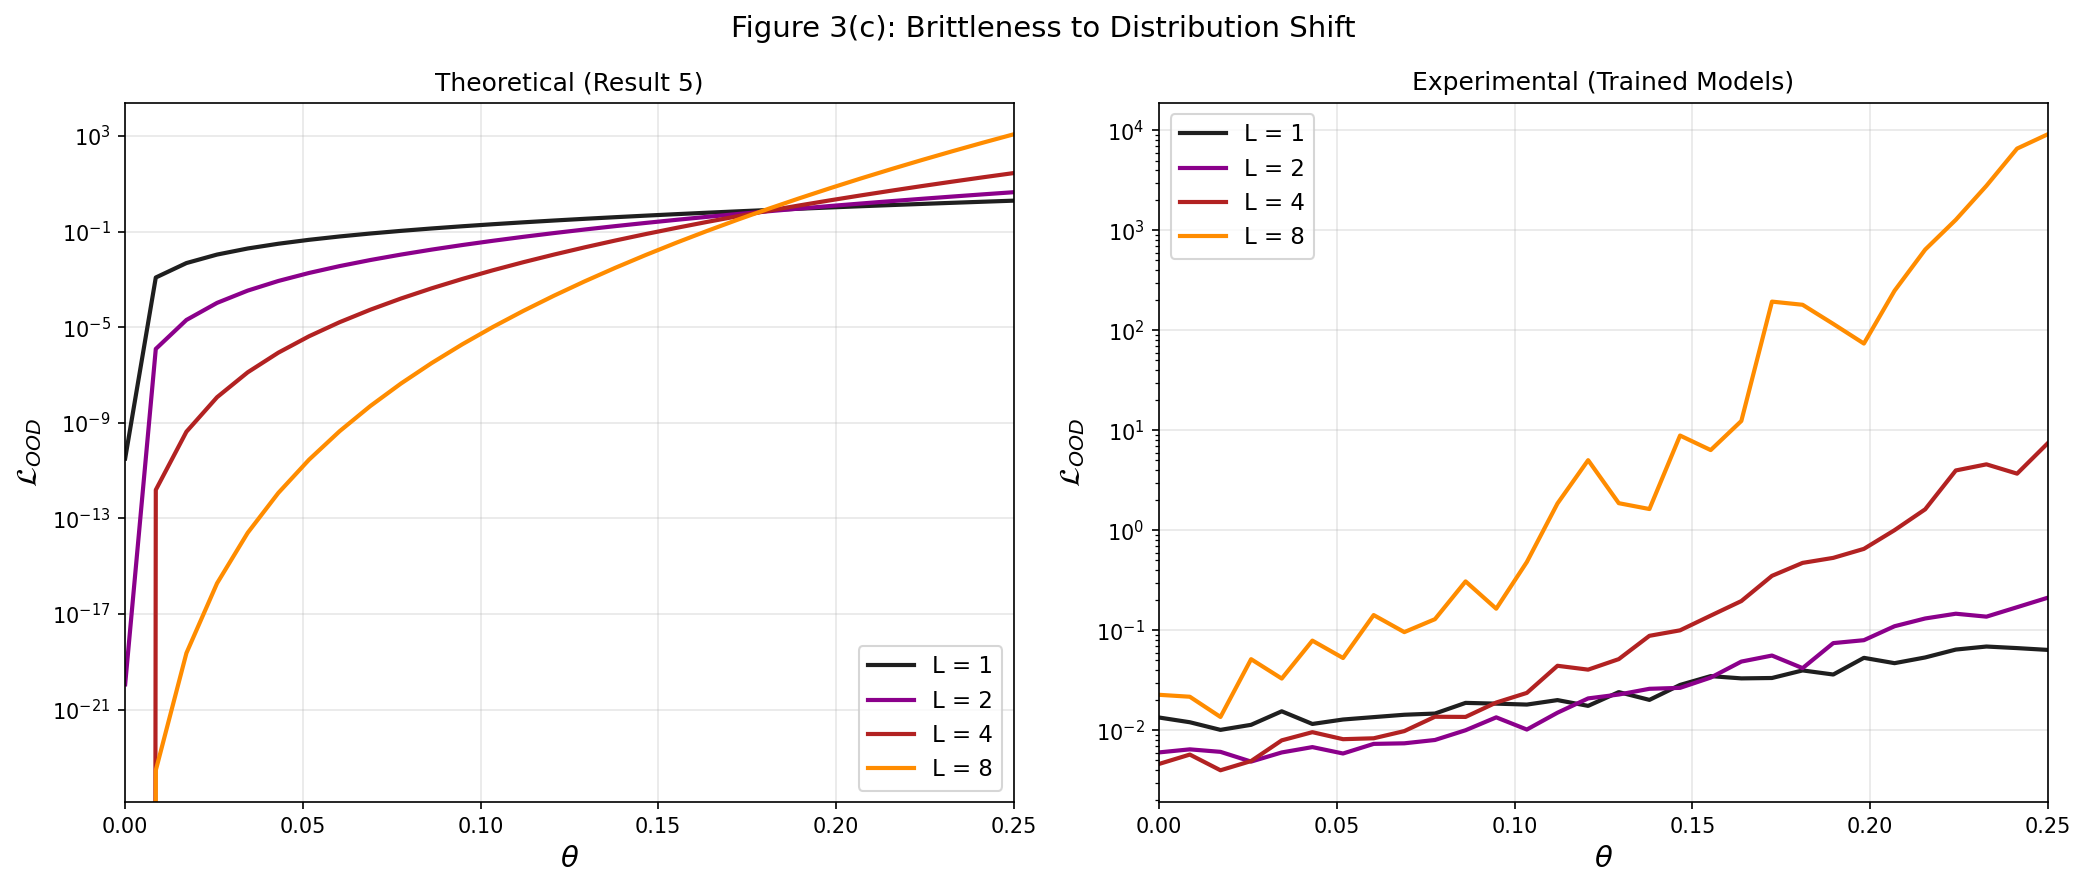
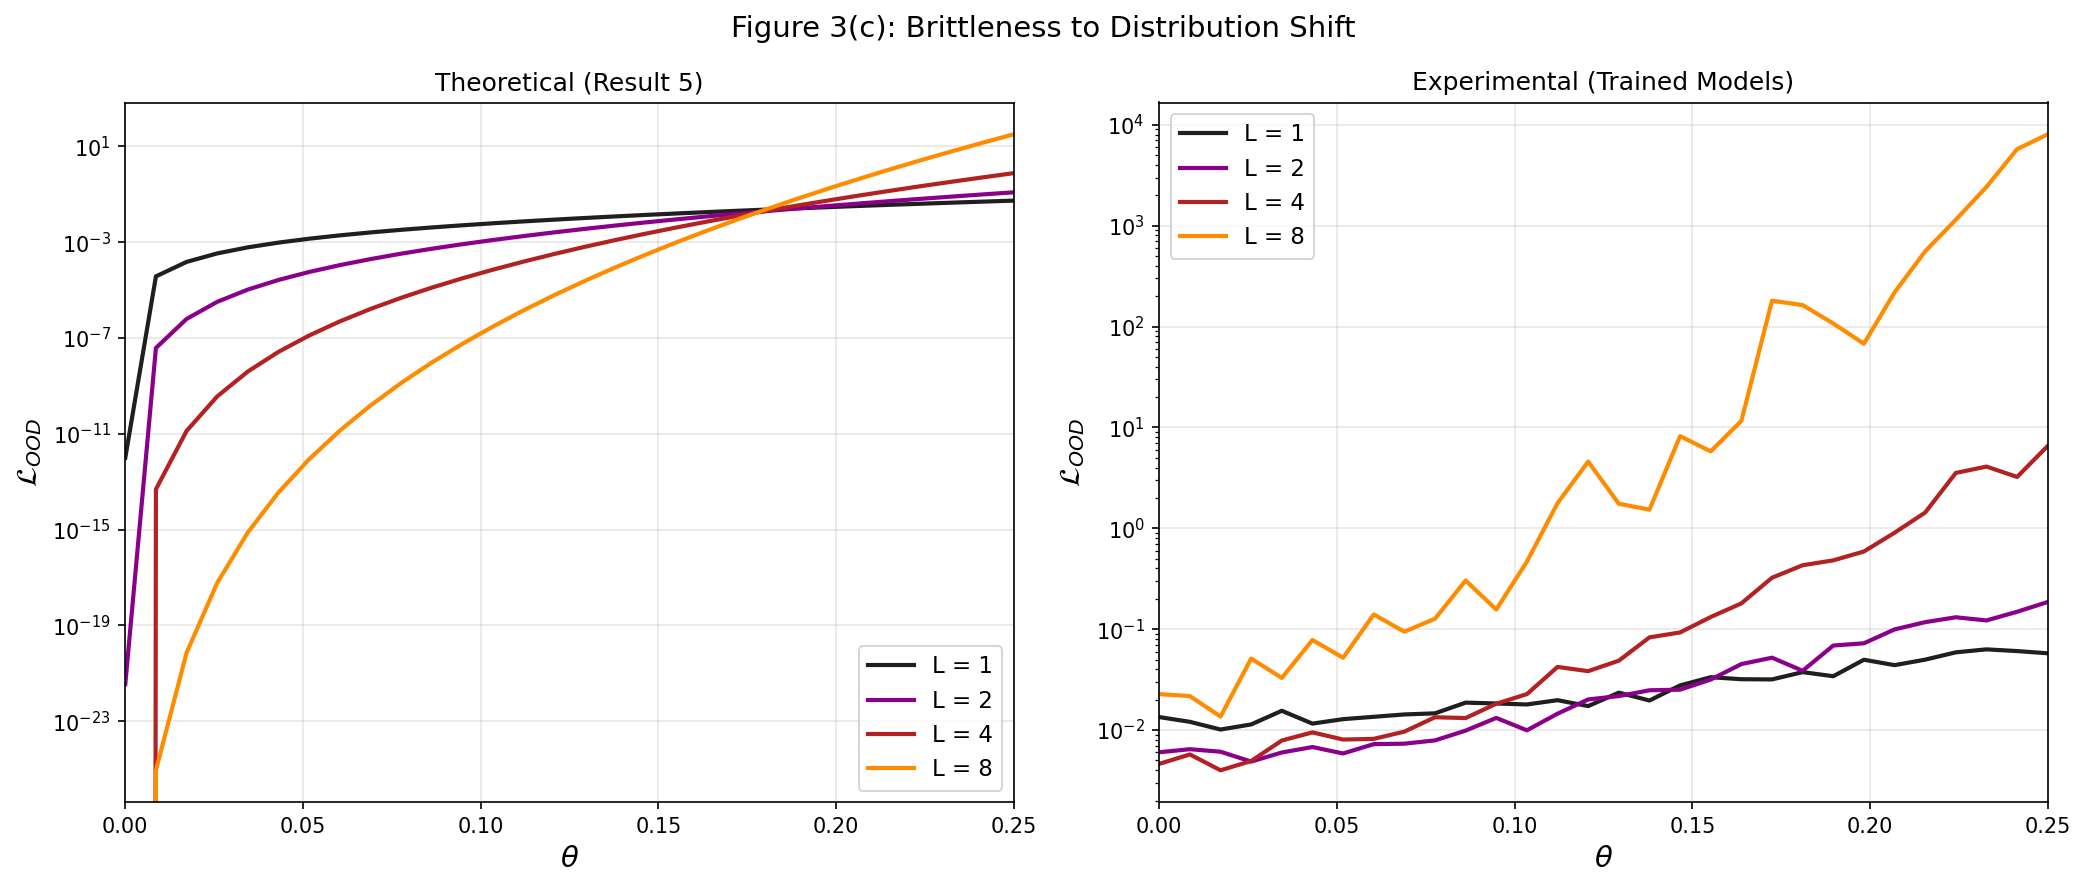
fix rotating omega issue

diff --git a/src/train_fs.py b/src/train_fs.py
@@ -481,7 +481,8 @@ def run_figure_3c_experimental(
     for theta in tqdm(thetas, desc="Evaluating"):
         # Rotate covariance
         Sigma_prime = rotate_covariance(Sigma, theta, S)
-        Omega_prime = rotate_covariance(Omega, theta, S)
+        # Paper Figure 3(c) rotates the INPUT covariance Σ only; keep task covariance Ω fixed.
+        Omega_prime = Omega
 
         for L in depths:
             ood_loss = evaluate_ood_loss(
@@ -569,7 +570,8 @@ def compute_theoretical_ood_loss(
 
     # Rotate covariances
     Sigma_prime = rotate_covariance(Sigma, theta, S)
-    Omega_prime = rotate_covariance(Omega, theta, S)
+    # Paper Figure 3(c) rotates the INPUT covariance Σ only; keep task covariance Ω fixed.
+    Omega_prime = Omega
 
     # Compute Sigma^{-1}
     Sigma_inv = torch.linalg.inv(Sigma + 1e-6 * torch.eye(D, device=device))
@@ -581,8 +583,8 @@ def compute_theoretical_ood_loss(
     # Compute M^L
     M_L = torch.linalg.matrix_power(M, L)
 
-    # Compute loss: tr(Omega' @ M_L^T @ Sigma' @ M_L)
-    loss = torch.trace(Omega_prime @ M_L.T @ Sigma_prime @ M_L)
+    # Compute loss: tr(Ω' M_L^T Σ' M_L) with normalized trace to match the paper's O(1) loss scale.
+    loss = torch.trace(Omega_prime @ M_L.T @ Sigma_prime @ M_L) / D
 
     return loss.item()
 
@@ -703,7 +705,8 @@ def run_figure_3c_comparison(
     experimental_results = {L: [] for L in depths}
     for theta in tqdm(thetas, desc="Experimental"):
         Sigma_prime = rotate_covariance(Sigma, theta, S)
-        Omega_prime = rotate_covariance(Omega, theta, S)
+        # Paper Figure 3(c) rotates Σ only; keep Ω fixed.
+        Omega_prime = Omega
         for L in depths:
             ood_loss = evaluate_ood_loss(
                 trained_models[L], Sigma_prime, Omega_prime,

diff --git a/src/train_rrs.py b/src/train_rrs.py
@@ -424,7 +424,8 @@ def run_task4_comparison(
     for theta in tqdm(thetas, desc="Evaluating OOD"):
         # Rotate base covariance by theta
         Sigma_shifted = rotate_covariance(Sigma_base, theta, S)
-        Omega_shifted = rotate_covariance(Omega_base, theta, S)
+        # Align with paper's distribution-shift setup: rotate Σ only, keep Ω fixed.
+        Omega_shifted = Omega_base
 
         for L in depths:
             # Evaluate FS model

diff --git a/src/train_nonlinear.py b/src/train_nonlinear.py
@@ -391,7 +391,7 @@ if __name__ == "__main__":
     # Run Task 5 comparison
     linear_results, twolayer_results = run_task5_comparison(
         D=64,
-        n_steps=6000,
+        n_steps=12000,
         lr=0.01,
         sigma=0.0,  # No noise for cleaner comparison
         device=device,
